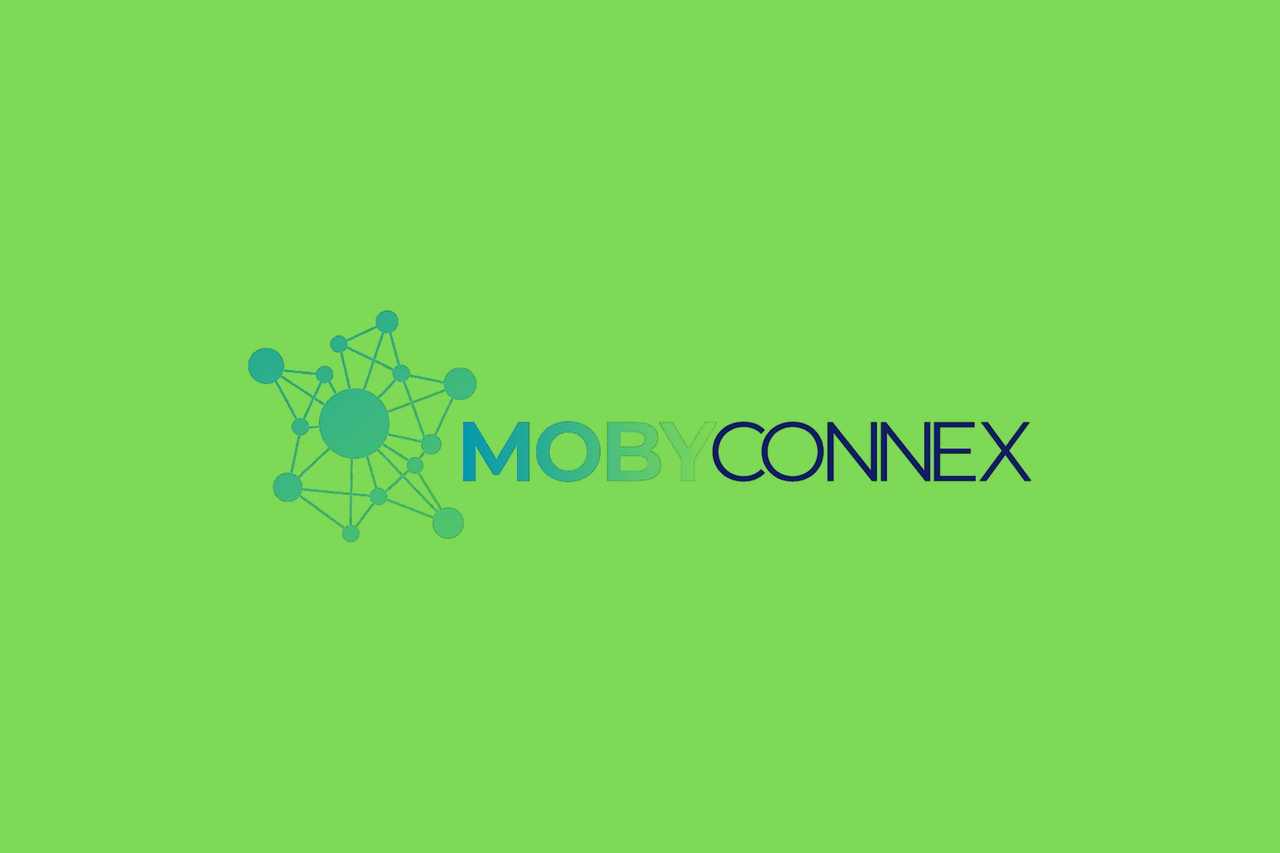
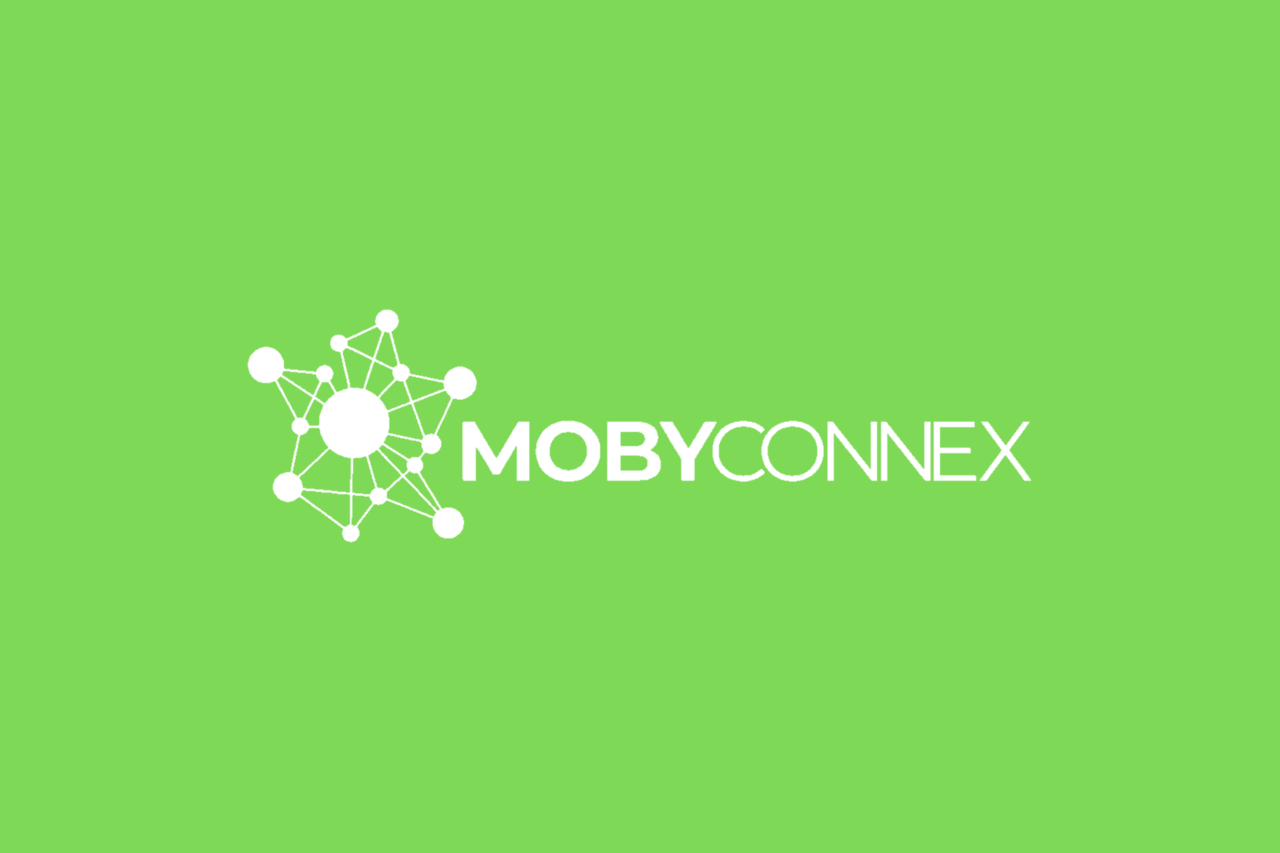
brand: การ์ดโลโก้พื้นเข้มใช้พื้นกรมท่าในตัวอย่าง + ไฟล์บนพื้นเขียวเป็นโทนขาว (เดิมเขียวบนเขียวอ่านไม่ชัด)

Changed region(s): [[0.1875, 0.3658, 0.8125, 0.6401]]

diff --git a/src/content/foundations.tsx b/src/content/foundations.tsx
@@ -20,15 +20,18 @@ export function LogoDoc() {
               { src: '/brand/mobyconnex-horizontal.png', label: 'แนวนอน — พื้นสว่าง', note: 'ใช้เป็นค่าเริ่มต้นในเว็บ/เอกสาร' },
               { src: '/brand/mobyconnex-on-navy.png', label: 'แนวนอน — พื้นกรมท่า', note: 'ใช้บนพื้นเข้ม/สไลด์' },
               { src: '/brand/mobyconnex-footer.png', label: 'แนวนอน — ฝังพื้นกรมท่า (ทึบ)', note: 'ใช้เมื่อพื้นหลังสีคงที่ ไม่มีรอยกล่อง' },
-              { src: '/brand/mobyconnex-horizontal-dark.png', label: 'แนวนอน — โปร่งใสสำหรับพื้นเข้ม', note: 'ใช้บนพื้นเข้มที่เปลี่ยนสี/ภาพถ่าย' },
-              { src: '/brand/mobyconnex-on-green.png', label: 'แนวนอน — พื้นเขียว', note: 'ใช้ในงานโปรโมชัน' },
+              { src: '/brand/mobyconnex-horizontal-dark.png', label: 'แนวนอน — โปร่งใสสำหรับพื้นเข้ม', note: 'ใช้บนพื้นเข้มที่เปลี่ยนสี/ภาพถ่าย', bg: '#0B1547' },
+              { src: '/brand/mobyconnex-on-green.png', label: 'แนวนอน — บนพื้นเขียว (โทนขาว)', note: 'ใช้ในงานโปรโมชัน' },
               { src: '/brand/mobyconnex-vertical.png', label: 'แนวตั้ง — พื้นสว่าง', note: 'ใช้เมื่อพื้นที่แคบ' },
-              { src: '/brand/mobyconnex-vertical-dark.png', label: 'แนวตั้ง — พื้นเข้ม', note: 'ใช้บนพื้นกรมท่า/พื้นเข้ม ในพื้นที่แคบ' },
+              { src: '/brand/mobyconnex-vertical-dark.png', label: 'แนวตั้ง — พื้นเข้ม', note: 'ใช้บนพื้นกรมท่า/พื้นเข้ม ในพื้นที่แคบ', bg: '#0B1547' },
               { src: '/brand/mobyconnex-mark.png', label: 'มาร์คเดี่ยว (โครงข่าย)', note: 'ใช้เป็นไอคอนแอป/อวตาร เมื่อมีพื้นที่จำกัด' },
             ].map((l) => (
               <Card key={l.label}>
                 <CardContent className="flex flex-col gap-3 pt-5">
-                  <div className="grid h-32 place-items-center rounded border border-line bg-[#F2F8FB]">
+                  <div
+                    className="grid h-32 place-items-center rounded border border-line"
+                    style={{ background: l.bg ?? '#F2F8FB' }}
+                  >
                     <img src={l.src} alt={l.label} className="max-h-24 w-auto" />
                   </div>
                   <div>
